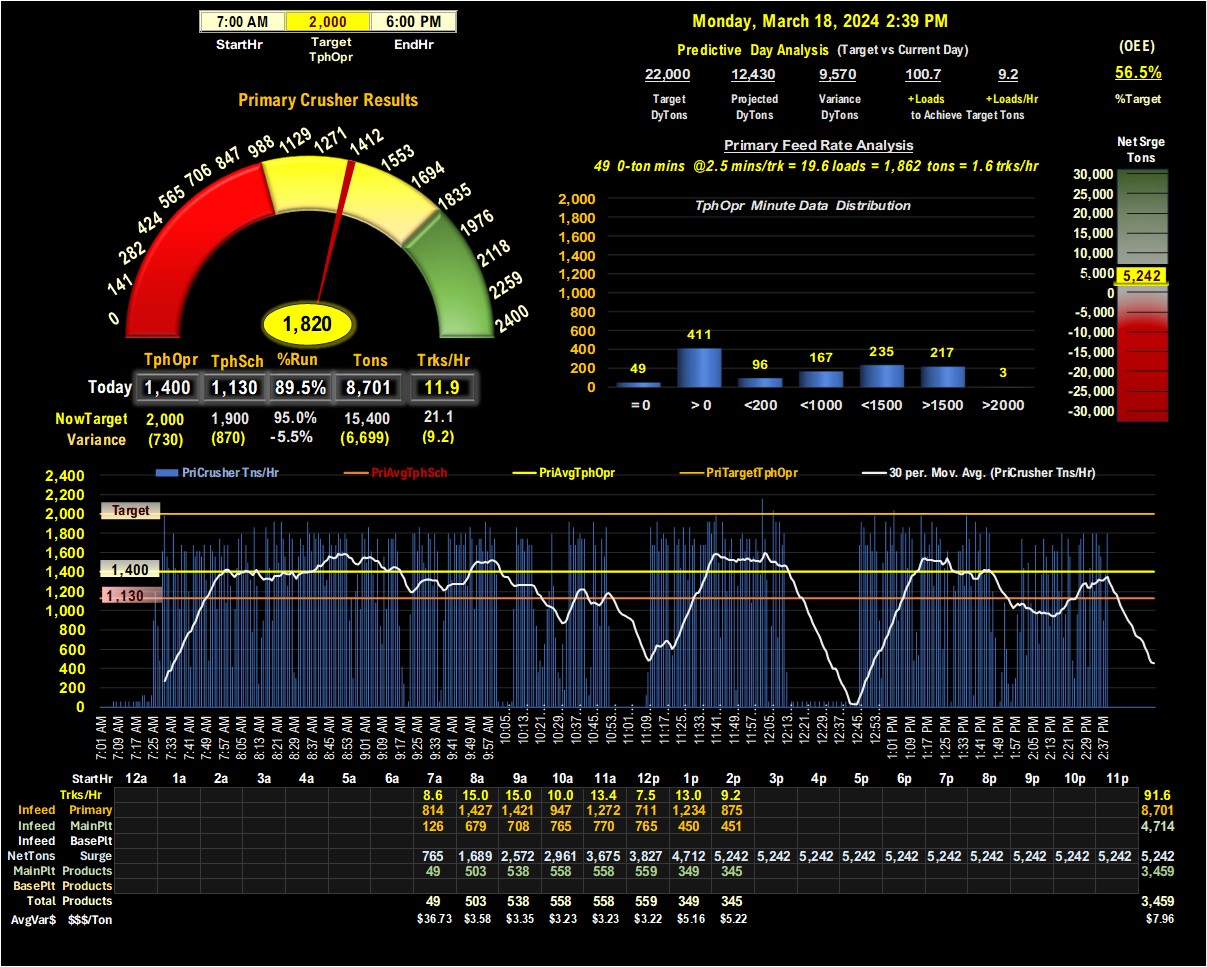
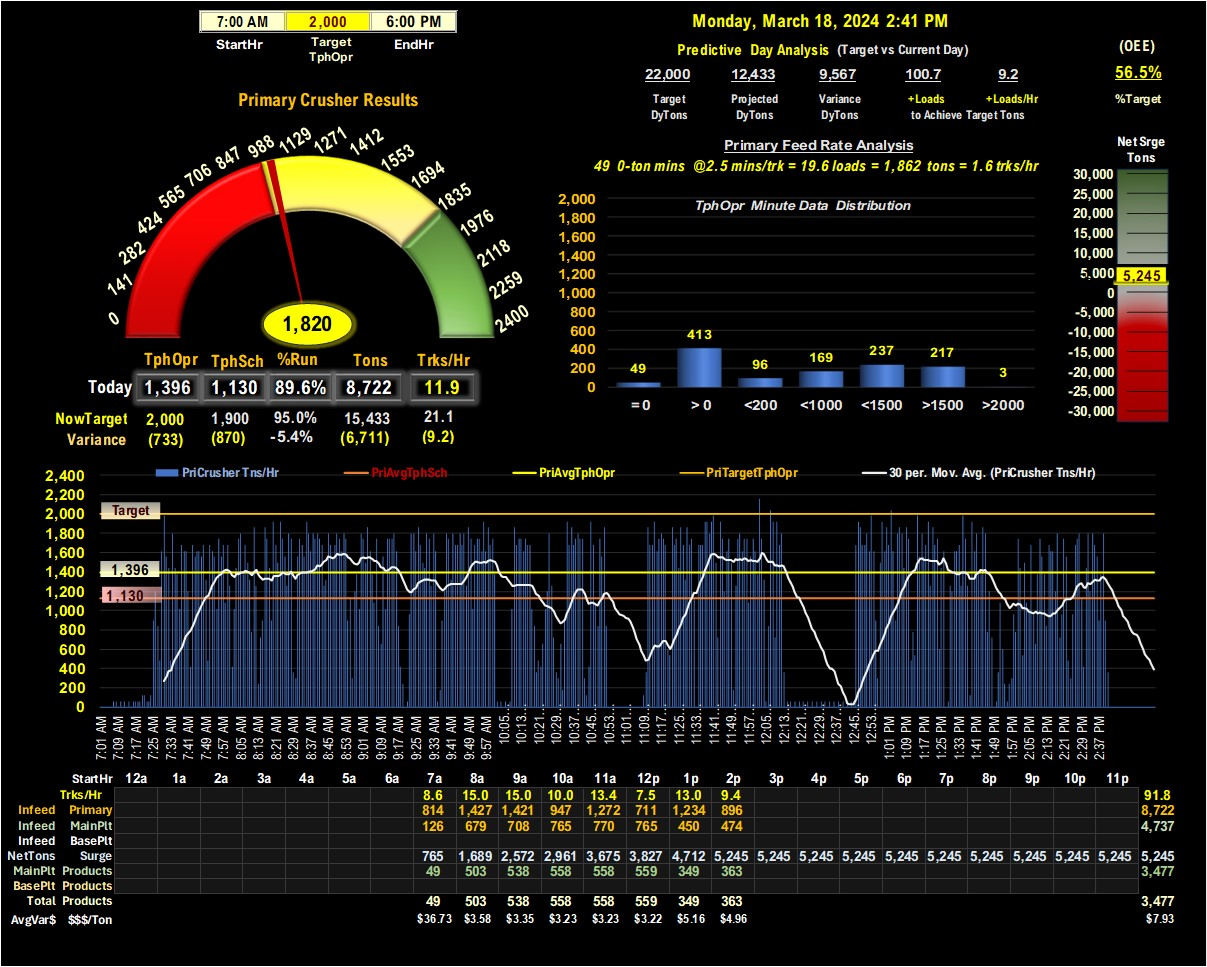
new commit

diff --git a/ColLSPri1.py b/ColLSPri1.py
@@ -1,5 +1,7 @@
 from PIL import Image
 import streamlit as st
+import os
+import time
 
 # Set Page Configuration
 st.set_page_config(layout="wide", initial_sidebar_state="collapsed")
@@ -12,18 +14,15 @@ hide_st_style = """
             header {visibility: hidden;}
             </style>
             """
-st.markdown(hide_st_style, unsafe_allow_html=True)  
+st.markdown(hide_st_style, unsafe_allow_html=True)
 
-st.markdown(
-    """
+st.markdown("""
     <style>
     .reportview-container .viewer .stApp .footer {
         visibility: hidden;
     }
     </style>
-    """,
-    unsafe_allow_html=True,
-)
+    """, unsafe_allow_html=True)
 
 st.markdown("""
     <style>
@@ -33,16 +32,23 @@ st.markdown("""
     </style>
     """, unsafe_allow_html=True)
 
+# Initialize or load the session state for tracking last update time
+if 'last_update' not in st.session_state:
+    st.session_state.last_update = time.time()
+
 # Load the image once and store it globally
-@st.cache_resource
-def load_image(image_path):
-    return Image.open(image_path)
+image_path = "ColLSToday1.jpg"
+image = Image.open(image_path)
 
 def main():
     # Display the image to automatically resize with the column width
-    image_path = "ColLSPri.jpg"
-    image = load_image(image_path)
     st.image(image, use_column_width=True)
+    
+    # Check if 60 seconds have passed
+    current_time = time.time()
+    if current_time - st.session_state.last_update > 60:
+        st.session_state.last_update = current_time
+        st.experimental_rerun()
 
 if __name__ == '__main__':
     main()
